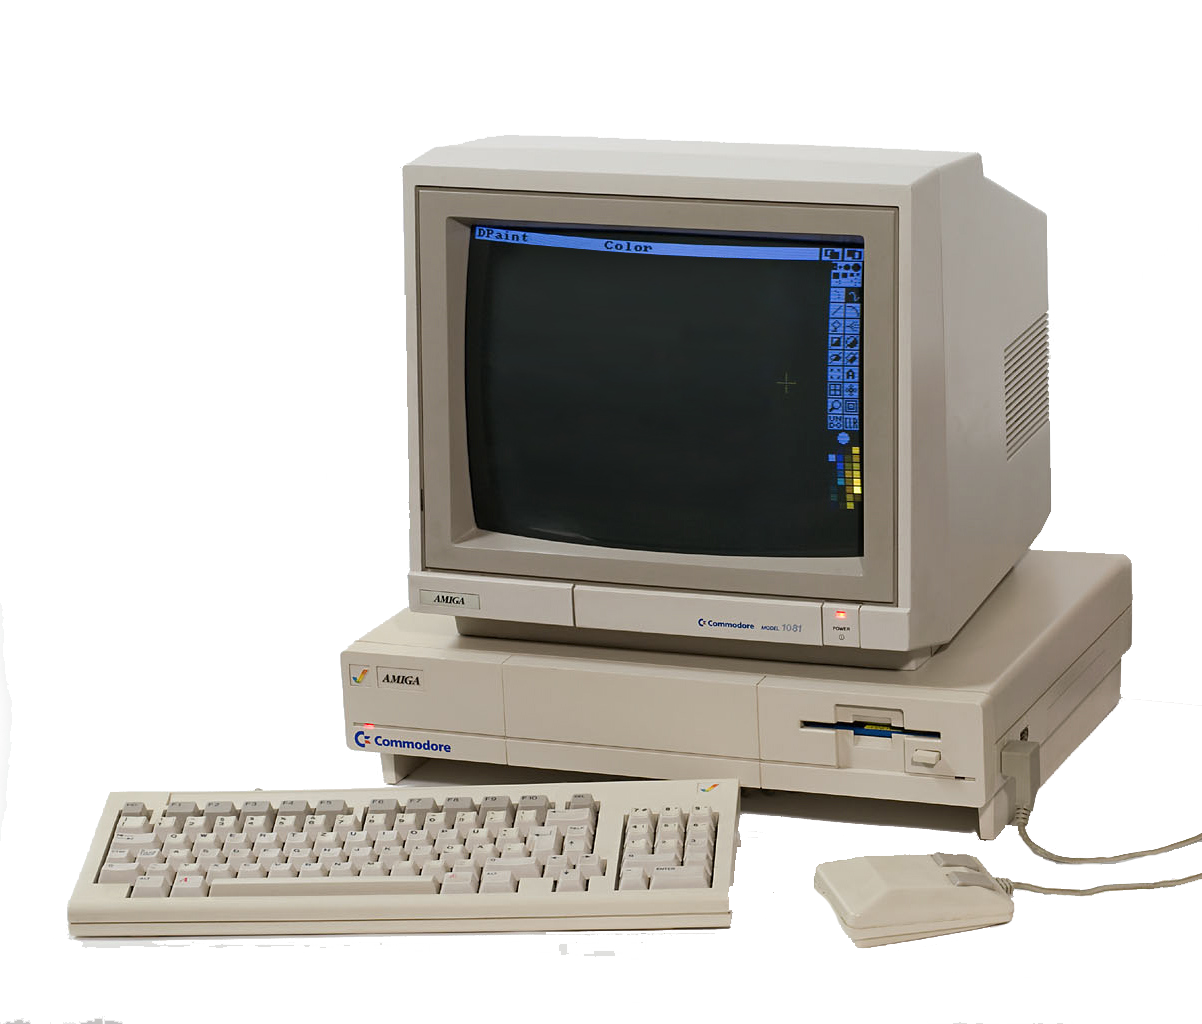
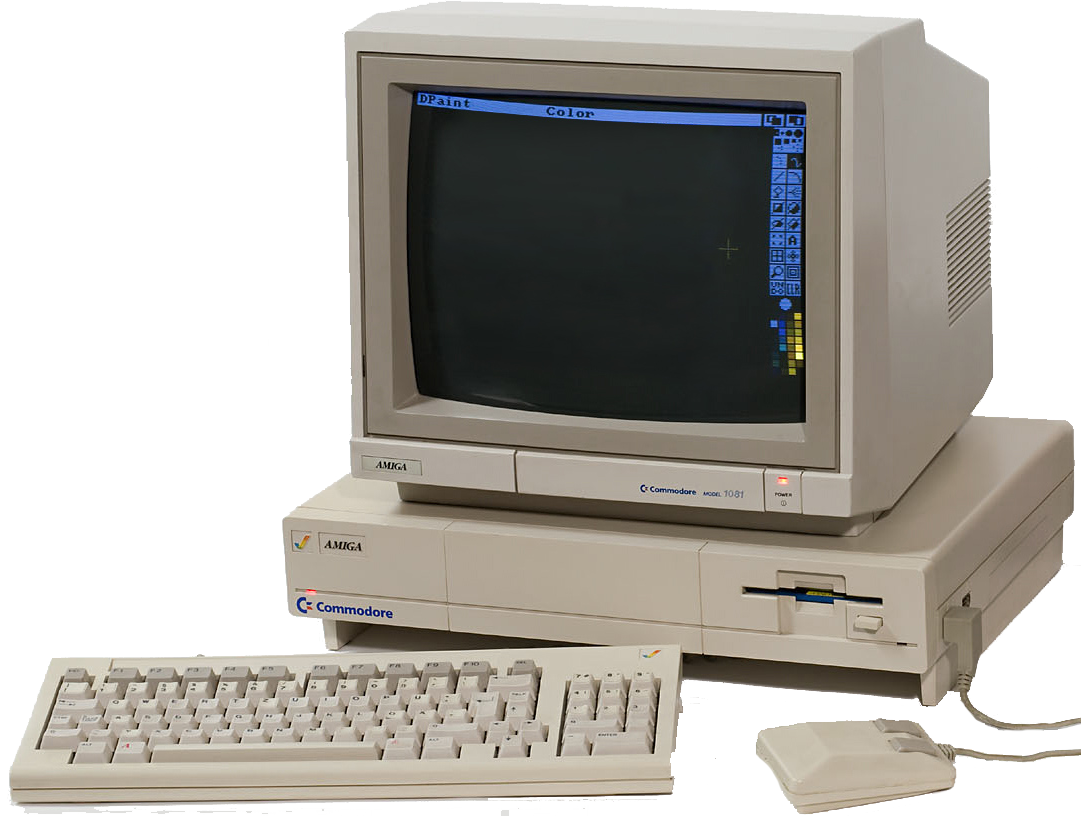
Image Overhaul

diff --git a/_cards/macintosh_portable.md b/_cards/macintosh_portable.md
@@ -4,7 +4,7 @@ realtitle: Macintosh Portable
 cardtype: product
 hardwaretype: computer
 stafftype: null
-image: macintosh-portable.jpg
+image: macintosh-portable.png
 imageattribution: Rama
 imagelicense: SA 2.0 fr
 imagelink: 'https://upload.wikimedia.org/wikipedia/commons/thumb/c/c3/Macintosh_Portable-IMG_7541.jpg/1280px-Macintosh_Portable-IMG_7541.jpg'

diff --git a/_cards/Commodore_vic20.md b/_cards/Commodore_vic20.md
@@ -3,7 +3,7 @@ title: Commodore Vic 20
 realtitle: Commodore Vic 20
 cardtype: product
 hardwaretype: computer
-image: vic20.jpg
+image: vic20.png
 imageattribution: Evan Amos
 imagelicense: Public Domain
 imagelink: 'https://upload.wikimedia.org/wikipedia/commons/thumb/f/f1/Commodore-VIC-20-FL.jpg/800px-Commodore-VIC-20-FL.jpg'

diff --git a/_cards/Eagle_Computer.md b/_cards/Eagle_Computer.md
@@ -3,7 +3,7 @@ title: Eagle PC
 realtitle: Eagle PC
 cardtype: product
 hardwaretype: computer
-image: eagle-computer.jpg
+image: eagle-computer.png
 imageattribution: Mark Richards
 imagelicense: © Mark Richards
 imagelink: 'http://www.computerhistory.org/revolution/personal-computers/17/302/1186'

diff --git a/_cards/Atari_Lynx.md b/_cards/Atari_Lynx.md
@@ -3,7 +3,7 @@ title: Atari Lynx
 realtitle: Atari Lynx
 cardtype: Product
 hardwaretype: console
-image: atarilynx.jpg
+image: atarilynx.png
 imageattribution: Evan Amos
 imagelicense: CC BY-SA 3.0
 imagelink: 'https://en.wikipedia.org/wiki/Atari_Lynx#/media/File:Atari-Lynx-I-Handheld.jpg'

diff --git a/_cards/Amiga_500.md b/_cards/Amiga_500.md
@@ -3,7 +3,7 @@ title: Amiga 500
 realtitle: Amiga 500
 cardtype: product
 hardwaretype: computer
-image: amiga500.jpg
+image: amiga500.png
 imageattribution: Bill Bertram 2006
 imagelicense: CC-BY-2.5 — Attribution
 imagelink: 'https://en.wikipedia.org/wiki/File:Amiga500_system.jpg'

diff --git a/_cards/Atari_XEGS.md b/_cards/Atari_XEGS.md
@@ -3,7 +3,7 @@ title: Atari XEGS
 realtitle: Atari XEGS
 cardtype: product
 hardwaretype: 'console, computer'
-image: atarixegs.jpg
+image: atarixegs.png
 imageattribution: Bilby
 imagelicense: CC BY 3.0
 imagelink: 'https://en.wikipedia.org/wiki/Atari_XEGS#/media/File:Atari_XEGS.jpg'

diff --git a/_cards/bad_review_in_computer_caming_world.md b/_cards/bad_review_in_computer_caming_world.md
@@ -1,6 +1,6 @@
 ---
-title: Bad Review in Computer Gaming World
-realtitle: Bad Review in Computer Gaming World
+title: Review in Computer Gaming World
+realtitle: Review in Computer Gaming World
 cardtype: event
 image: bad-review-cgw.jpg
 imageattribution: Computer Gaming World

diff --git a/_cards/Great_review_in_Computer_Gaming_World.md b/_cards/Great_review_in_Computer_Gaming_World.md
@@ -1,6 +1,6 @@
 ---
-title: Great review in Computer Gaming World
-realtitle: Great review in Computer Gaming World
+title: Review in Computer Gaming World
+realtitle: Review in Computer Gaming World
 cardtype: event
 image: great-review-cgw.jpg
 imageattribution: CGW Museum

diff --git a/_cards/Atari_ST.md b/_cards/Atari_ST.md
@@ -3,7 +3,7 @@ title: Atari ST
 realtitle: Atari ST
 cardtype: product
 hardwaretype: computer
-image: atarist.jpg
+image: atarist.png
 imageattribution: Bill Bertram
 imagelicense: CC-BY-2.5
 imagelink: 'https://commons.wikimedia.org/wiki/File:Atari_1040STf.jpg'
